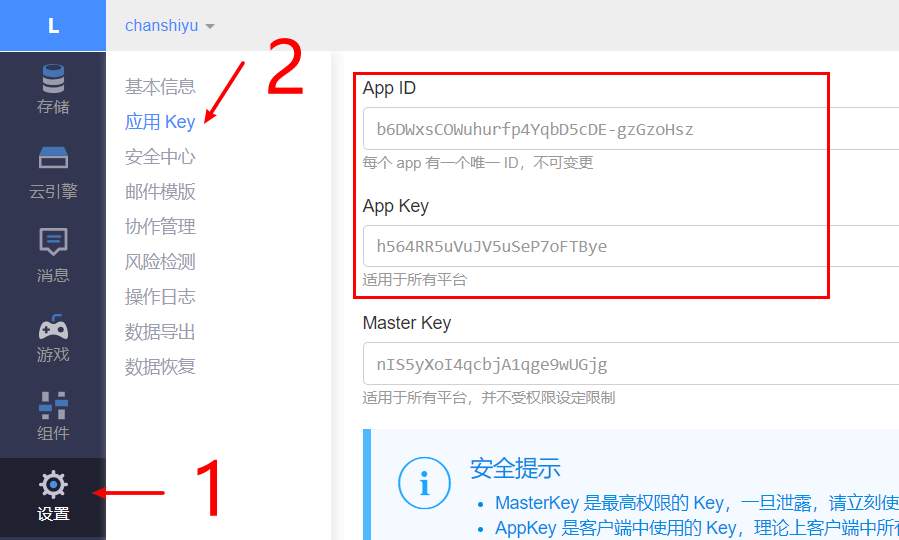
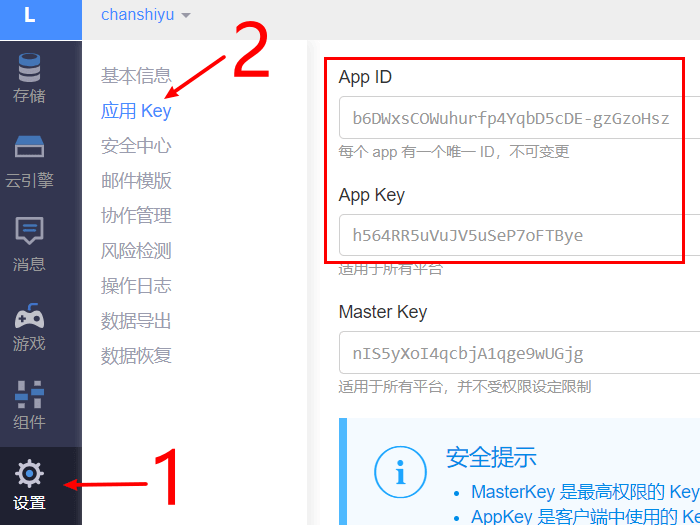
add img

diff --git a/花信風/2018/14 Aurora 食用指南.md b/花信風/2018/14 Aurora 食用指南.md
@@ -64,7 +64,7 @@ creator: 'chanshiyucx',
 
 Aurora 文章的热度，即阅读次数使用的是 [Leancloud](https://leancloud.cn/) 存储。注册一个 Leancloud 账号并新建一个应用，将应用 key 填入相应配置项。
 
-![Leancloud 应用 Key](https://i.loli.net/2019/03/05/5c7df5acc92a7.png)
+![Leancloud 应用 Key](https://i.loli.net/2019/03/05/5c7e26e25047f.png)
 
 ```javascript
 /**
@@ -84,7 +84,7 @@ Gitalk 是一个基于 GitHub Issue 和 Preact 开发的评论插件。其原理
 
 ![申请 GitHub Application](https://i.loli.net/2019/03/05/5c7df5accea95.png)
 
-![生成 clientID 和 clientSecret](https://i.loli.net/2019/03/05/5c7df5acc7755.png)
+![生成 clientID 和 clientSecret](https://i.loli.net/2019/03/05/5c7e26e246cf9.png)
 
 ```javascript
 /**
